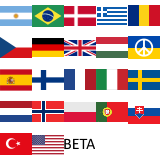
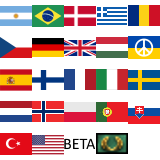
Add master world flag

Changed region(s): [[0.5938, 0.8125, 0.8125, 0.9688]]

diff --git a/src/styles.scss b/src/styles.scss
@@ -1361,6 +1361,9 @@ mat-paginator {
 .flag-zz {
   background: url('assets/images/flags.png') -64px -128px;
 }
+.flag-ts {
+  background: url('assets/images/flags.png') -96px -128px;
+}
 
 .gd-share-link-container {
   label {
